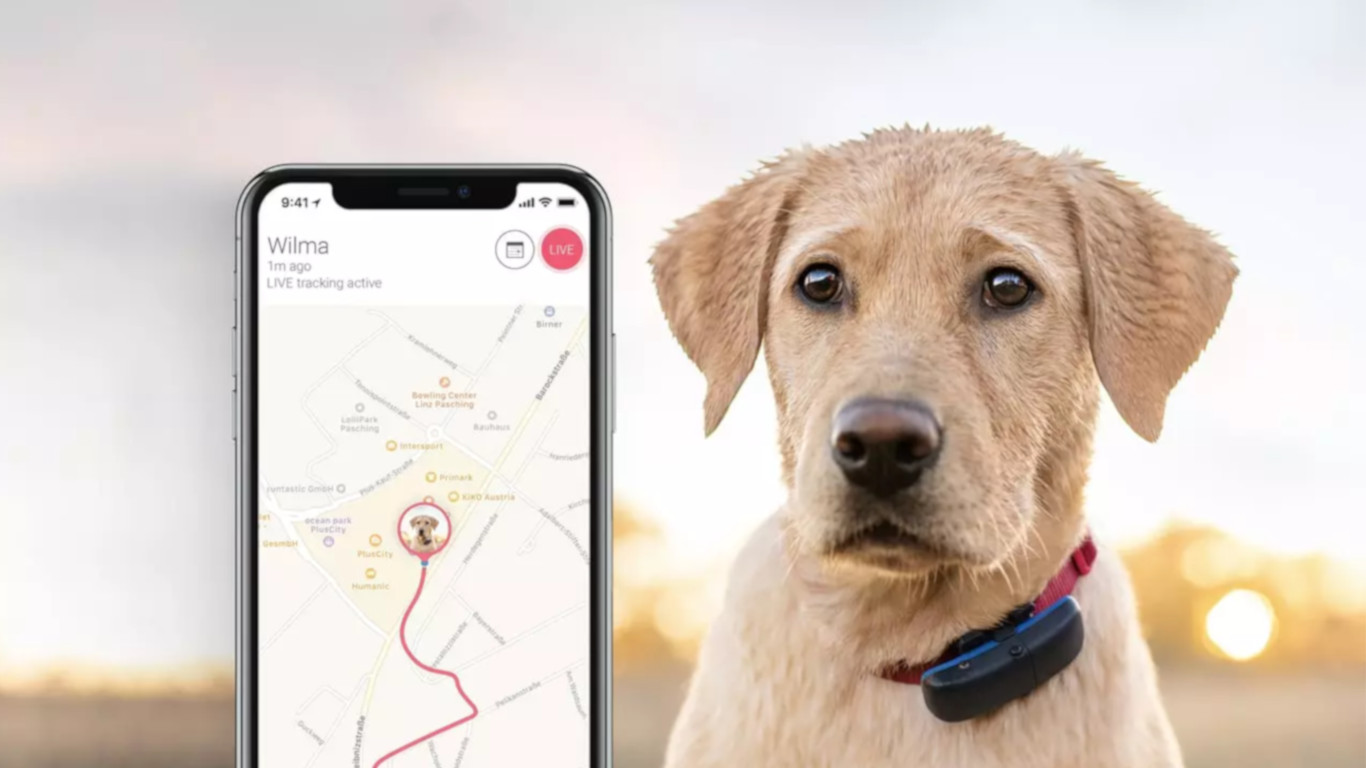
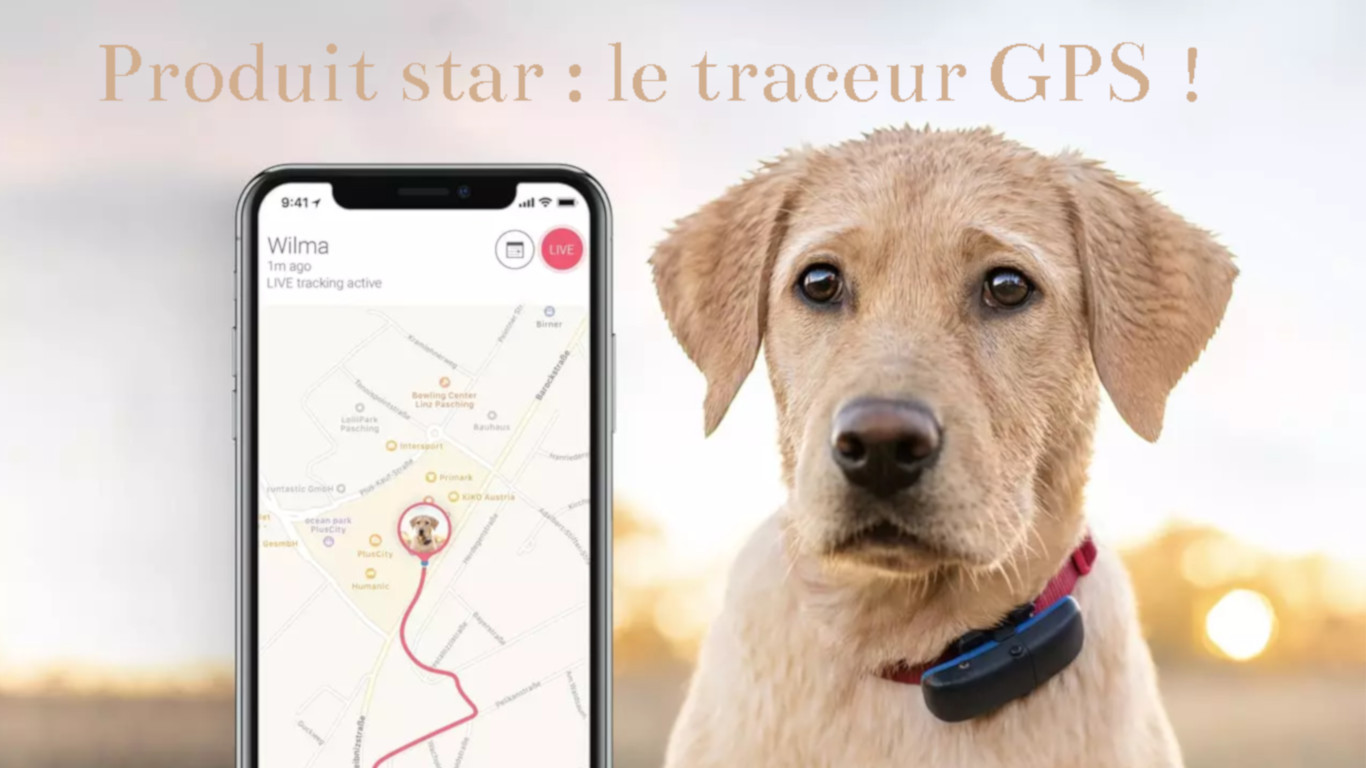
ajout textes slider

Changed region(s): [[0.0615, 0.0312, 0.8917, 0.1562]]

diff --git a/public/js/app.js b/public/js/app.js
@@ -49143,8 +49143,8 @@ __webpack_require__.r(__webpack_exports__);
 /*! no static exports found */
 /***/ (function(module, exports, __webpack_require__) {
 
-__webpack_require__(/*! /var/www/digidog/resources/js/app.js */"./resources/js/app.js");
-module.exports = __webpack_require__(/*! /var/www/digidog/resources/sass/app.scss */"./resources/sass/app.scss");
+__webpack_require__(/*! /var/www/DigiDog/resources/js/app.js */"./resources/js/app.js");
+module.exports = __webpack_require__(/*! /var/www/DigiDog/resources/sass/app.scss */"./resources/sass/app.scss");
 
 
 /***/ })

diff --git a/public/css/app.css b/public/css/app.css
@@ -10869,3 +10869,13 @@ p {
   border-radius: 20px;
 }
 
+#chienniche {
+  max-width: 700px;
+  max-height: 700px;
+  border-radius: 20px;
+}
+
+.formulaire {
+  max-width: 100%;
+}
+

diff --git a/resources/views/login/mes_adresses.blade.php b/resources/views/login/mes_adresses.blade.php
@@ -5,155 +5,162 @@
 @endsection
 
 @section('content')
-    <article id="photo" class="container-fluid mb-3">
-        <div class="row justify-content-center">
-            <img class="img-responsive" id="chienniche" src="{{ asset("images/chienniche.jpg") }}">
-        </div>
-    </article>
-
-    <div class="row">
-        <div class="col-xs-12 col-md-6">
-    <article id="formulaire" class="container mw-100 text-center">
-        <form id="formulaire1" method="post">
-            <div class="form-group">
-                <fieldset class="container">
-                    <h2 class="nomchamp">Adresse de livraison</h2>
-                    <div class="row justify-content-center">
-                        <div class="row">
-                            <div class="col-6">
-                                <label class="label" for="wording">Libellé</label>
-                            </div>
-                            <div class="col-6">
-                                <input id="adresse" name="wording" type=text required placeholder="maison">
-                            </div>
-                            <div class="row">
-                                <div class="col-6">
-                                    <label class="label" for="lastname">Nom</label>
-                                </div>
-                                <div class="col-6">
-                                    <input id="adresse" name="lastname" type=text required placeholder="Dupont">
-                                </div>
-                                <div class="col-6">
-                                    <label class="label" for="firstname">Prénom</label>
-                                </div>
-                                <div class="col-6">
-                                    <input id="adresse" name="firstname" type=text required placeholder="Jean">
-                                </div>
-                                <div class="col-6">
-                                    <label class="label" for="adresse">Adresse</label>
-                                </div>
-                                <div class="col-6">
-                                    <input id="adresse" name="adresse" type=text required
-                                           placeholder=" 99, rue du teckel">
-                                </div>
-                            </div>
-                            <div class="col-6">
-                                <label class="label" for="adresse">Complément d'adresse</label>
-                            </div>
-                            <div class="col-6">
-                                <input id="adresse" name="adresse" type=text placeholder="Résidence Toutou Bât. D">
-                            </div>
-                            </div>
-                            <div class="row">
-                                <div class="col-6">
-                                    <label class="label" for=codepostal>C.P.</label>
-                                </div>
-                                <div class="col-6">
-                                    <input id=codepostal name=codepostal type=text required placeholder=" 99999">
-                                </div>
-                            </div>
-                            <div class="row">
-                                <div class="col-6">
-                                    <label class="label" for=ville>Ville</label>
-                                </div>
-                                <div class="col-6">
-                                    <input id=ville name=ville type=text required placeholder=" Chienville">
-                                </div>
-                            </div>
-                            <div class="row">
-                                <div class="col-6">
-                                    <label class="label" for=pays>Pays</label>
-                                </div>
-                                <div class="col-6">
-                                    <input id=pays name=pays type=text required placeholder=" France">
-                                </div>
-                            </div>
-                        <button type="submit" class="btn btn-primary mt-2">Modifier</button>
-                </fieldset>
+    <main>
+        <article id="photo" class="container-fluid mb-3">
+            <div class="row justify-content-center">
+                <img class="img-responsive" id="chienniche" src="{{ asset("images/chienniche.jpg") }}">
             </div>
+        </article>
 
-        </form>
-    </article>
-        </div>
-        <div class="col-xs-12 col-md-6">
-    <article id="formulaire" class="container mw-100 text-center">
-        <form id="formulaire2" method="post">
-            <div class="form-group justify-content-around">
-                <fieldset class="container">
-                    <h2 class="nomchamp">Adresse de facturation</h2>
-                    <div class="row justify-content-center">
-                    <div class="row">
-                        <div class="col-6">
-                            <label class="label" for="wording">Libellé</label>
+        <div class="row">
+            <div class="col-xs-12 col-md-6">
+                <article id="formulaire" class="container mw-100 text-center">
+                    <form id="formulaire1" method="post">
+                        <div class="form-group">
+                            <fieldset class="container">
+                                <h2 class="nomchamp">Adresse de livraison</h2>
+                                <div class="row justify-content-center">
+                                    <div class="row">
+                                        <div class="col-6">
+                                            <label class="label" for="wording">Libellé</label>
+                                        </div>
+                                        <div class="col-6">
+                                            <input id="adresse" name="wording" type=text required placeholder="maison">
+                                        </div>
+                                        <div class="row">
+                                            <div class="col-6">
+                                                <label class="label" for="lastname">Nom</label>
+                                            </div>
+                                            <div class="col-6">
+                                                <input id="adresse" name="lastname" type=text required
+                                                       placeholder="Dupont">
+                                            </div>
+                                            <div class="col-6">
+                                                <label class="label" for="firstname">Prénom</label>
+                                            </div>
+                                            <div class="col-6">
+                                                <input id="adresse" name="firstname" type=text required
+                                                       placeholder="Jean">
+                                            </div>
+                                            <div class="col-6">
+                                                <label class="label" for="adresse">Adresse</label>
+                                            </div>
+                                            <div class="col-6">
+                                                <input id="adresse" name="adresse" type=text required
+                                                       placeholder=" 99, rue du teckel">
+                                            </div>
+                                        </div>
+                                        <div class="col-6">
+                                            <label class="label" for="adresse">Complément d'adresse</label>
+                                        </div>
+                                        <div class="col-6">
+                                            <input id="adresse" name="adresse" type=text
+                                                   placeholder="Résidence Toutou Bât. D">
+                                        </div>
+                                    </div>
+                                    <div class="row">
+                                        <div class="col-6">
+                                            <label class="label" for=codepostal>C.P.</label>
+                                        </div>
+                                        <div class="col-6">
+                                            <input id=codepostal name=codepostal type=text required
+                                                   placeholder=" 99999">
+                                        </div>
+                                    </div>
+                                    <div class="row">
+                                        <div class="col-6">
+                                            <label class="label" for=ville>Ville</label>
+                                        </div>
+                                        <div class="col-6">
+                                            <input id=ville name=ville type=text required placeholder=" Chienville">
+                                        </div>
+                                    </div>
+                                    <div class="row">
+                                        <div class="col-6">
+                                            <label class="label" for=pays>Pays</label>
+                                        </div>
+                                        <div class="col-6">
+                                            <input id=pays name=pays type=text required placeholder=" France">
+                                        </div>
+                                    </div>
+                                    <button type="submit" class="btn btn-primary mt-2">Modifier</button>
+                            </fieldset>
                         </div>
-                        <div class="col-6">
-                            <input id="adresse" name="wording" type=text required placeholder="Travail">
-                        </div>
-                        <div class="col-6">
-                            <label class="label" for="lastname">Nom</label>
-                        </div>
-                        <div class="col-6">
-                            <input id="adresse" name="lastname" type=text required placeholder="Dupont">
-                        </div>
-                        <div class="col-6">
-                            <label class="label" for="firstname">Prénom</label>
-                        </div>
-                        <div class="col-6">
-                            <input id="adresse" name="firstname" type=text required placeholder="Jean">
-                        </div>
-                        <div class="col-6">
-                            <label class="label" for="adresse">Adresse</label>
-                        </div>
-                        <div class="col-6">
-                            <input id="adresse" name="adresse" type=text required placeholder="55, rue du pitbull">
-                        </div>
-                        <div class="col-6">
-                            <label class="label" for="adresse">Complément d'adresse</label>
-                        </div>
-                        <div class="col-6">
-                            <input id="adresse" name="adresse" type=text placeholder="entreprise Chienchien">
-                        </div>
-                    </div>
-                    <div class="row">
-                        <div class="col-6">
-                            <label class="label" for=codepostal>C.P.</label>
-                        </div>
-                        <div class="col-6">
-                            <input id=codepostal name=codepostal type=text required placeholder="77777">
-                        </div>
-                    </div>
-                    <div class="row">
-                        <div class="col-6">
-                            <label class="label" for=ville>Ville</label>
-                        </div>
-                        <div class="col-6">
-                            <input id=ville name=ville type=text required placeholder="Dog City">
-                        </div>
-                    </div>
-                    <div class="row">
-                        <div class="col-6">
-                            <label class="label" for=pays>Pays</label>
-                        </div>
-                        <div class="col-6">
-                            <input id=pays name=pays type=text required placeholder=" France">
-                        </div>
-                    </div>
-                    </div>
-                    <button type="submit" class="btn btn-primary mt-2">Modifier</button>
-                </fieldset>
+                    </form>
+                </article>
             </div>
-        </form>
-    </article>
+            <div class="col-xs-12 col-md-6">
+                <article id="formulaire" class="container mw-100 text-center">
+                    <form id="formulaire2" method="post">
+                        <div class="form-group justify-content-around">
+                            <fieldset class="container">
+                                <h2 class="nomchamp">Adresse de facturation</h2>
+                                <div class="row justify-content-center">
+                                    <div class="row">
+                                        <div class="col-6">
+                                            <label class="label" for="wording">Libellé</label>
+                                        </div>
+                                        <div class="col-6">
+                                            <input id="adresse" name="wording" type=text required placeholder="Travail">
+                                        </div>
+                                        <div class="col-6">
+                                            <label class="label" for="lastname">Nom</label>
+                                        </div>
+                                        <div class="col-6">
+                                            <input id="adresse" name="lastname" type=text required placeholder="Dupont">
+                                        </div>
+                                        <div class="col-6">
+                                            <label class="label" for="firstname">Prénom</label>
+                                        </div>
+                                        <div class="col-6">
+                                            <input id="adresse" name="firstname" type=text required placeholder="Jean">
+                                        </div>
+                                        <div class="col-6">
+                                            <label class="label" for="adresse">Adresse</label>
+                                        </div>
+                                        <div class="col-6">
+                                            <input id="adresse" name="adresse" type=text required
+                                                   placeholder="55, rue du pitbull">
+                                        </div>
+                                        <div class="col-6">
+                                            <label class="label" for="adresse">Complément d'adresse</label>
+                                        </div>
+                                        <div class="col-6">
+                                            <input id="adresse" name="adresse" type=text
+                                                   placeholder="entreprise Chienchien">
+                                        </div>
+                                    </div>
+                                    <div class="row">
+                                        <div class="col-6">
+                                            <label class="label" for=codepostal>C.P.</label>
+                                        </div>
+                                        <div class="col-6">
+                                            <input id=codepostal name=codepostal type=text required placeholder="77777">
+                                        </div>
+                                    </div>
+                                    <div class="row">
+                                        <div class="col-6">
+                                            <label class="label" for=ville>Ville</label>
+                                        </div>
+                                        <div class="col-6">
+                                            <input id=ville name=ville type=text required placeholder="Dog City">
+                                        </div>
+                                    </div>
+                                    <div class="row">
+                                        <div class="col-6">
+                                            <label class="label" for=pays>Pays</label>
+                                        </div>
+                                        <div class="col-6">
+                                            <input id=pays name=pays type=text required placeholder=" France">
+                                        </div>
+                                    </div>
+                                </div>
+                                <button type="submit" class="btn btn-primary mt-2">Modifier</button>
+                            </fieldset>
+                        </div>
+                    </form>
+                </article>
+            </div>
         </div>
-    </div>
+    </main>
 @endsection

diff --git a/resources/views/pages/welcome.blade.php b/resources/views/pages/welcome.blade.php
@@ -15,19 +15,12 @@
                 <div class="carousel-inner">
                     <div class="carousel-item active">
                         <img src="{{ asset("images/distributeur.jpg") }}" class="d-block w-100" alt="distributeur">
-                        <div class="texte1">
-                            <h1><span class="spacer"></span>Nouveauté : le distributeur !<span class="spacer"></span>
-                            </h1></div>
                     </div>
                     <div class="carousel-item">
                         <img src="{{ asset("images/chien1.jpg") }}" class="d-block w-100" alt="traceur">
-                        <div class="texte2"><h1><span class="spacer"></span>Produit star : le traceur GPS<span
-                                        class="spacer"></span></h1></div>
                     </div>
                     <div class="carousel-item">
                         <img src="{{ asset("images/chien2.jpg") }}" class="d-block w-100" alt="capteur">
-                        <div class="texte2"><h1><span class="spacer"></span>Découvrez le capteur d'activité !<span
-                                        class="spacer"></span></h1></div>
                     </div>
                 </div>
             </div>
